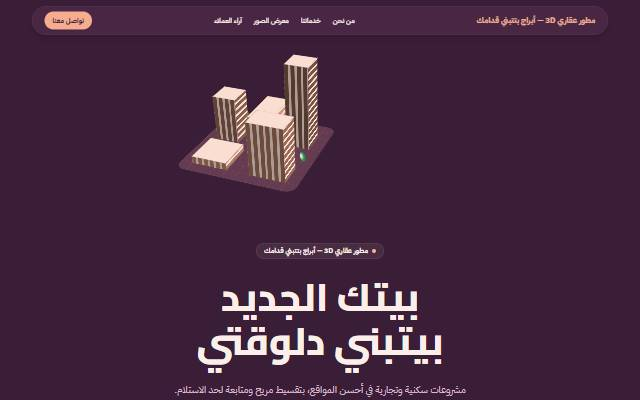
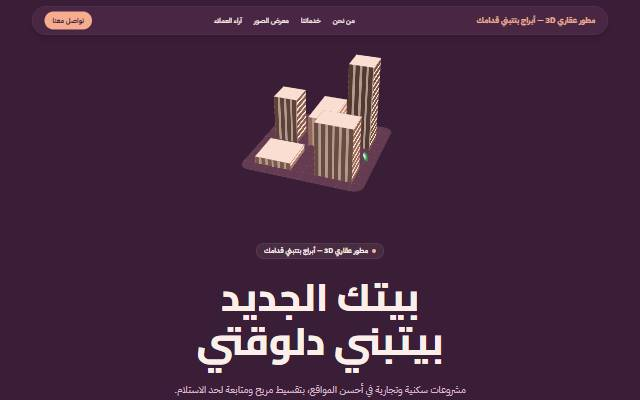
feat(templates): تصميمات 3D — الدفعة 3 (فعاليات/سفر/برمجيات/بورتفوليو/أزياء) + إصلاح اتجاه المجسمات

Changed region(s): [[0.2812, 0.12, 0.625, 0.48]]

diff --git a/resources/css/app.css b/resources/css/app.css
@@ -348,6 +348,7 @@
     width: var(--bq3d-size, 20rem);
     height: var(--bq3d-size, 20rem);
     perspective: 1100px;
+    direction: ltr;
     pointer-events: none;
     scale: var(--bq3d-scale, 1);
 }
@@ -688,6 +689,77 @@
     .bq-reveal .bq3d-brick-drop { animation: bq3d-brick 6s cubic-bezier(.3, 0, .3, 1) infinite; animation-delay: var(--delay, 0s); }
     .bq-reveal .bq3d-wheel { animation: bq3d-roll 2.4s linear infinite; }
     .bq-reveal .bq3d-gear { animation: bq3d-unroll 6s linear infinite; }
+}
+
+/* ===== الدفعة 3 من المجسمات ===== */
+
+/* "احتفال" — علبة هدية بشريطة بتلف، وبلالين طالعة، وقصاقيص ملونة نازلة. */
+.bq3d-gift { position: absolute; }
+.bq3d-gift .wrap > i { background-color: var(--site-primary); background-image: linear-gradient(90deg, transparent 42%, color-mix(in srgb, #fff 80%, var(--site-primary)) 42% 58%, transparent 58%); }
+.bq3d-gift .wrap > :is(.f-right, .f-left) { filter: brightness(.82); }
+.bq3d-gift .wrap > .f-top, .bq3d-gift .lid > .f-top { background-image: linear-gradient(90deg, transparent 42%, color-mix(in srgb, #fff 80%, var(--site-primary)) 42% 58%, transparent 58%), linear-gradient(transparent 42%, color-mix(in srgb, #fff 80%, var(--site-primary)) 42% 58%, transparent 58%); }
+.bq3d-gift .lid > i { background-color: color-mix(in srgb, var(--site-primary) 85%, #000); background-image: linear-gradient(90deg, transparent 42%, color-mix(in srgb, #fff 80%, var(--site-primary)) 42% 58%, transparent 58%); }
+.bq3d-bow { position: absolute; left: 0; top: 0; width: 2.6rem; height: 1.8rem; margin: -.9rem 0 0 -2.6rem; border-radius: 50% 10% 10% 50%; border: .45rem solid color-mix(in srgb, #fff 80%, var(--site-primary)); transform-origin: right center; }
+.bq3d-balloon { position: absolute; width: 3rem; height: 3.6rem; border-radius: 50% 50% 48% 48%; background-image: radial-gradient(circle at 32% 28%, color-mix(in srgb, #fff 70%, var(--bq3d-ball)) 0 10%, var(--bq3d-ball) 45%, color-mix(in srgb, var(--bq3d-ball) 55%, #000) 100%); box-shadow: 0 16px 26px -14px rgb(0 0 0 / .45); }
+.bq3d-balloon::after { content: ''; position: absolute; left: 50%; top: 100%; width: 1px; height: 4.5rem; background-color: color-mix(in srgb, var(--site-text) 35%, transparent); }
+.bq3d-confetti { position: absolute; width: .55rem; height: .9rem; border-radius: .1rem; background-color: var(--c); }
+
+@keyframes bq3d-rise-up { 0%, 100% { translate: 0 0; } 50% { translate: .6rem -1.4rem; } }
+@keyframes bq3d-confetti { 0% { transform: translateY(-2rem) rotate3d(1, 1, 0, 0deg); opacity: 0; } 15% { opacity: 1; } 100% { transform: translateY(16rem) rotate3d(1, 1, 0, 720deg); opacity: 0; } }
+
+/* "كرة أرضية" — كرة من خطوط طول وعرض بتلف، وطيارة بتدور حواليها. */
+.bq3d-globe { position: absolute; }
+.bq3d-globe .meridian { position: absolute; width: 11rem; height: 11rem; margin: -5.5rem 0 0 -5.5rem; border-radius: 9999px; border: 3px solid color-mix(in srgb, var(--site-primary) 85%, #fff); transform: rotateY(var(--a)); }
+.bq3d-globe .parallel { position: absolute; width: var(--s); height: var(--s); margin: calc(var(--s) / -2) 0 0 calc(var(--s) / -2); border-radius: 9999px; border: 2.5px solid color-mix(in srgb, var(--site-primary) 65%, #fff); transform: translateY(var(--y)) rotateX(90deg); }
+.bq3d-globe-core { position: absolute; left: 50%; top: 50%; width: 10.6rem; height: 10.6rem; margin: -5.3rem 0 0 -5.3rem; border-radius: 9999px; background-image: radial-gradient(circle at 35% 30%, color-mix(in srgb, var(--site-primary) 25%, var(--site-surface)), color-mix(in srgb, var(--site-primary) 55%, var(--site-surface)) 75%); box-shadow: 0 24px 50px -20px rgb(0 0 0 / .5); }
+.bq3d-orbit { position: absolute; transform: rotateX(72deg) rotateZ(-14deg); }
+.bq3d-orbit-ring { position: absolute; width: 16rem; height: 16rem; margin: -8rem 0 0 -8rem; border-radius: 9999px; border: 1.5px dashed color-mix(in srgb, var(--site-text) 30%, transparent); }
+.bq3d-orbit-spin { position: absolute; }
+.bq3d-plane { position: absolute; left: 7.4rem; top: -1.1rem; width: 2.2rem; height: 2.2rem; transform: rotateX(-72deg); background-color: var(--site-primary); clip-path: polygon(50% 0, 58% 38%, 100% 58%, 100% 66%, 58% 56%, 56% 84%, 68% 94%, 68% 100%, 50% 95%, 32% 100%, 32% 94%, 44% 84%, 42% 56%, 0 66%, 0 58%, 42% 38%); }
+
+@keyframes bq3d-orbit { to { transform: rotateZ(360deg); } }
+
+/* "مكعب" — مكعب كود (أوجه فيها سطور كود ونوافذ) بيلف، ومكعبات صغيرة بتدور حواليه. */
+.bq3d-codecube > i { background-color: color-mix(in srgb, var(--site-surface) 70%, #000); box-shadow: inset 0 0 0 2px color-mix(in srgb, var(--site-primary) 70%, transparent), 0 0 24px color-mix(in srgb, var(--site-primary) 30%, transparent); background-image: radial-gradient(circle at .9rem .9rem, #ff5f57 0 .22rem, transparent .24rem), radial-gradient(circle at 1.6rem .9rem, #febc2e 0 .22rem, transparent .24rem), radial-gradient(circle at 2.3rem .9rem, #28c840 0 .22rem, transparent .24rem), repeating-linear-gradient(to bottom, transparent 0 .55rem, color-mix(in srgb, var(--site-primary) 75%, transparent) .55rem .8rem, transparent .8rem 1.1rem); background-size: auto, auto, auto, 70% 60%; background-position: 0 0, 0 0, 0 0, .8rem 2rem; background-repeat: no-repeat; }
+.bq3d-codecube > .f-right { background-size: auto, auto, auto, 45% 60%; }
+.bq3d-codecube > .f-top { background-size: auto, auto, auto, 55% 50%; }
+.bq3d-cubelet > i { background-color: var(--site-primary); box-shadow: inset 0 0 0 1px rgb(255 255 255 / .3); }
+.bq3d-cubelet > :is(.f-right, .f-left) { filter: brightness(.75); }
+.bq3d-cubelet > .f-top { filter: brightness(1.15); }
+
+@keyframes bq3d-tumble { to { transform: rotateX(-24deg) rotateY(360deg); } }
+@keyframes bq3d-tumble-small { to { transform: rotateX(360deg) rotateY(360deg); } }
+
+/* "لوحات" — لوحات فنية متعلقة في الهوا على أعماق مختلفة، بتلف كأنك ماشي في معرض. */
+.bq3d-frames { position: absolute; transform: rotateY(-24deg) rotateX(6deg); }
+.bq3d-art { position: absolute; width: var(--w); height: var(--h); margin: calc(var(--h) / -2) 0 0 calc(var(--w) / -2); transform: translate3d(var(--x), var(--y), var(--z)); padding: .45rem; background-color: color-mix(in srgb, var(--site-surface) 50%, #fff); box-shadow: 0 0 0 .3rem color-mix(in srgb, var(--site-primary) 55%, #1f2937), 0 24px 40px -18px rgb(0 0 0 / .55); }
+.bq3d-art::before { content: ''; position: absolute; inset: .45rem; background-image: var(--art); }
+
+@keyframes bq3d-walk { 0%, 100% { transform: rotateY(-30deg) rotateX(6deg); } 50% { transform: rotateY(22deg) rotateX(2deg); } }
+
+/* "شماعة" — شماعة عليها فستان بيتمرجح، وشنطة تسوق جنبها. */
+.bq3d-hanger { position: absolute; transform-origin: 0 -5.5rem; }
+.bq3d-hanger .hook { position: absolute; left: -.9rem; top: -6.4rem; width: 1.8rem; height: 1.8rem; border-radius: 9999px; border: .25rem solid #9ca3af; border-bottom-color: transparent; border-left-color: transparent; transform: rotate(-45deg); }
+.bq3d-hanger .wire { position: absolute; left: -5rem; top: -4.8rem; width: 10rem; height: 2.2rem; background-color: #9ca3af; clip-path: polygon(50% 0, 100% 90%, 100% 100%, 0 100%, 0 90%, 50% 6%); }
+.bq3d-hanger .dress { position: absolute; left: -4.6rem; top: -2.8rem; width: 9.2rem; height: 11rem; background-image: linear-gradient(100deg, color-mix(in srgb, var(--site-primary) 70%, #000), var(--site-primary) 40%, color-mix(in srgb, var(--site-primary) 60%, #fff) 55%, var(--site-primary) 70%, color-mix(in srgb, var(--site-primary) 65%, #000)); clip-path: polygon(30% 0, 40% 0, 50% 8%, 60% 0, 70% 0, 72% 30%, 64% 38%, 100% 100%, 0 100%, 36% 38%, 28% 30%); }
+.bq3d-hanger .belt { position: absolute; left: -1.7rem; top: 1.2rem; width: 3.4rem; height: .5rem; border-radius: 9999px; background-color: color-mix(in srgb, #fff 75%, var(--site-primary)); }
+.bq3d-bag { position: absolute; }
+.bq3d-bag .body > i { background-color: color-mix(in srgb, var(--site-surface) 30%, #fff); box-shadow: inset 0 0 0 1px rgb(0 0 0 / .1); }
+.bq3d-bag .body > .f-front::after { content: ''; position: absolute; left: 30%; right: 30%; top: 38%; height: 26%; border-radius: 9999px; background-color: var(--site-primary); }
+.bq3d-bag .body > :is(.f-right, .f-left) { filter: brightness(.85); }
+.bq3d-bag .handle { position: absolute; left: -1.3rem; top: -4.6rem; width: 2.6rem; height: 2.6rem; border-radius: 9999px; border: .3rem solid var(--site-primary); border-bottom-color: transparent; transform: translateZ(1.25rem); }
+
+@keyframes bq3d-hang { 0%, 100% { transform: rotateY(-28deg) rotateZ(3deg); } 50% { transform: rotateY(28deg) rotateZ(-3deg); } }
+
+@media (prefers-reduced-motion: no-preference) {
+    .bq-reveal .bq3d-balloon { animation: bq3d-rise-up 5s ease-in-out infinite; animation-delay: var(--delay, 0s); }
+    .bq-reveal .bq3d-confetti { animation: bq3d-confetti 4s linear infinite; animation-delay: var(--delay, 0s); }
+    .bq-reveal .bq3d-globe-spin { animation: bq3d-spin-y 20s linear infinite; }
+    .bq-reveal .bq3d-orbit-spin { animation: bq3d-orbit 7s linear infinite; }
+    .bq-reveal .bq3d-cube-spin { animation: bq3d-tumble 16s linear infinite; }
+    .bq-reveal .bq3d-cubelet-spin { animation: bq3d-tumble-small 6s linear infinite; animation-delay: var(--delay, 0s); }
+    .bq-reveal .bq3d-frames { animation: bq3d-walk 10s ease-in-out infinite; }
+    .bq-reveal .bq3d-hanger { animation: bq3d-hang 6s ease-in-out infinite; }
 }
 
 /* نسخة المجسم التانية في قسم التواصل ثابتة (حركة واحدة بس في الصفحة — أخف على الموبايل). */

diff --git a/database/data/template-library.php b/database/data/template-library.php
@@ -992,6 +992,7 @@ return [
             ['slug' => 'tnthym-faaalyat-omnasbat-mkdm-hflat-ks-alaarosyn', 'wave' => 2, 'name' => 'مقدّم حفلات — قصة العروسين', 'hero_title' => 'كلمة حلوة في أهم لحظة', 'hero_subtitle' => 'تقديم فقرات الفرح والخطوبة، وحكاية العروسين بتتقال بشكل يفرّح الكل.'],
             ['slug' => 'tnthym-faaalyat-omnasbat-mnthm-hflat-althmanynat-rytro', 'wave' => 2, 'name' => 'منظّم حفلات الثمانينات — ريترو', 'hero_title' => 'حفلة بطعم الأيام الحلوة', 'hero_subtitle' => 'ديكور وأغاني وأزياء وألعاب من الثمانينات والتسعينات، ليوم يرجّعكم ورا.'],
             ['slug' => 'tnthym-faaalyat-omnasbat-shrk-tthakr-otsgyl-faaalyat-byanat-alhdor', 'wave' => 2, 'name' => 'شركة تذاكر وتسجيل فعاليات — بيانات الحضور', 'hero_title' => 'تذاكر وتسجيل من غير طوابير', 'hero_subtitle' => 'تذاكر إلكترونية بكود QR، وتسجيل دخول سريع، وتقرير لحظي بأعداد الحضور.'],
+            ['slug' => 'tnthym-faaalyat-3d-festive', 'wave' => 3, 'layout' => 'festive', 'name' => 'منظّم حفلات 3D — هدية وفرحة', 'hero_title' => 'فرحتك علينا من الأول للآخر', 'hero_subtitle' => 'تنظيم أفراح وأعياد ميلاد ومناسبات بديكور وصوت وإضاءة، وكل تفصيلة متظبطة في ميعادها.'],
         ],
         'tones' => [
             'warm' => [
@@ -1084,6 +1085,7 @@ return [
             ['slug' => 'sfr-osyah-rhlat-maa-rhal-kss-mn-altryk', 'wave' => 2, 'name' => 'رحلات مع رحّالة — قصص من الطريق', 'hero_title' => 'سافر مع حد شاف الدنيا', 'hero_subtitle' => 'رحلات جماعية صغيرة يقودها رحّالة، لأماكن مش في كتالوجات السياحة العادية.'],
             ['slug' => 'sfr-osyah-rhlat-ktar-klasyky-fyntag', 'wave' => 2, 'name' => 'رحلات قطار كلاسيكية — فينتاج', 'hero_title' => 'رحلة قطر زي زمان', 'hero_subtitle' => 'رحلات بقطارات النوم للأقصر وأسوان، بعربيات مرمّمة وأكل على الطريقة القديمة.'],
             ['slug' => 'sfr-osyah-mns-tamyn-sfr-atmt-kaml', 'wave' => 2, 'name' => 'منصة تأمين سفر — أتمتة كاملة', 'hero_title' => 'تأمين سفر في دقيقتين', 'hero_subtitle' => 'وثيقة تأمين طبي للسفر بتطلع فوراً، وتغطية معتمدة للسفارات.'],
+            ['slug' => 'sfr-osyah-3d-globe', 'wave' => 3, 'layout' => 'globe', 'name' => 'شركة سياحة 3D — العالم بين إيديك', 'hero_title' => 'لف العالم وإنت مطمّن', 'hero_subtitle' => 'رحلات داخلية وخارجية بطيران وفنادق مختارة، وبرنامج مظبوط من أول الحجز لحد الرجوع.'],
         ],
         'tones' => [
             'warm' => [
@@ -1176,6 +1178,7 @@ return [
             ['slug' => 'brmgyat-ostart-ab-shrk-ttoyr-mtagr-ks-ngah-kl-mtgr', 'wave' => 2, 'name' => 'شركة تطوير متاجر — قصة نجاح كل متجر', 'hero_title' => 'متجرك الإلكتروني من أول يوم', 'hero_subtitle' => 'تصميم وبرمجة متاجر بربط دفع وشحن، وعملاء كبروا معانا.'],
             ['slug' => 'brmgyat-ostart-ab-astodyo-alaaab-mobayl-mrh-bksl', 'wave' => 2, 'name' => 'استوديو ألعاب موبايل — مرح بكسل', 'hero_title' => 'ألعاب بسيطة بتسلّي جداً', 'hero_subtitle' => 'ألعاب موبايل بستايل البكسل الكلاسيكي، للاعبين من كل الأعمار حول العالم.'],
             ['slug' => 'brmgyat-ostart-ab-start-ab-thkaaa-astnaaay-atmt-alshghl', 'wave' => 2, 'name' => 'ستارت أب ذكاء اصطناعي — أتمتة الشغل', 'hero_title' => 'خلّي الذكاء الاصطناعي يشتغل عنك', 'hero_subtitle' => 'أدوات بتقرا الإيميلات والفواتير وترد على العملاء، وتوفر ساعات كل يوم.'],
+            ['slug' => 'brmgyat-ostart-ab-3d-cubic', 'wave' => 3, 'layout' => 'cubic', 'name' => 'شركة برمجيات 3D — كود بيلف', 'hero_title' => 'سيستم شغلك يمشي لوحده', 'hero_subtitle' => 'تطبيقات ومواقع وأنظمة مخصوصة لشغلك، بكود نضيف ودعم فني مستمر بعد التسليم.'],
         ],
         'tones' => [
             'warm' => [
@@ -1268,6 +1271,7 @@ return [
             ['slug' => 'bortfolyo-omstklyn-sfh-mhrr-mthkrat-kstk-bklamk', 'wave' => 2, 'name' => 'صفحة محررة مذكرات — قصتك بكلامك', 'hero_title' => 'ذكرياتك تستاهل تتكتب', 'hero_subtitle' => 'بنسجّل ذكرياتك ونصيغها في كتاب مطبوع، هدية تفضل للعيلة سنين.'],
             ['slug' => 'bortfolyo-omstklyn-bortfolyo-msmm-tyshyrtat-bhg-oaloan-zman', 'wave' => 2, 'name' => 'بورتفوليو مصمم تيشيرتات — بهجة وألوان زمان', 'hero_title' => 'تيشيرتات بتصميمات تفرّح', 'hero_subtitle' => 'رسومات مطبوعة على تيشيرتات وشنط، بستايل الكرتون والإعلانات القديمة.'],
             ['slug' => 'bortfolyo-omstklyn-sfh-mhnds-byanat-kod-othlyl', 'wave' => 2, 'name' => 'صفحة مهندس بيانات — كود وتحليل', 'hero_title' => 'بيانات بتتحول لقرارات', 'hero_subtitle' => 'تنظيف وتحليل بيانات ولوحات متابعة ونماذج تنبؤ، لشركات ناشئة ومتوسطة.'],
+            ['slug' => 'portfolio-mstklyn-3d-canvas', 'wave' => 3, 'layout' => 'canvas', 'name' => 'معرض أعمال 3D — لوحات في الهوا', 'hero_title' => 'أعمالي بتتكلم عني', 'hero_subtitle' => 'مشاريع اشتغلتها بإيدي من الفكرة للتسليم، اتفرّج عليها واختار اللي يناسب فكرتك.'],
         ],
         'tones' => [
             'warm' => [
@@ -1360,6 +1364,7 @@ return [
             ['slug' => 'azyaaa-omlabs-orsh-khyat-ks-kl-ghrz', 'wave' => 2, 'name' => 'ورشة خياطة — قصة كل غرزة', 'hero_title' => 'تفصيل وتعديل بإيد أسطى', 'hero_subtitle' => 'تفصيل فساتين وجلاليب وتعديل مقاسات، بتشطيب نضيف وميعاد مظبوط.'],
             ['slug' => 'azyaaa-omlabs-mtgr-mlabs-fyntag-ktaa-mkhtar', 'wave' => 2, 'name' => 'متجر ملابس فينتاج — قطع مختارة', 'hero_title' => 'قطع فينتاج مالهاش زي', 'hero_subtitle' => 'جواكت وفساتين وشنط من السبعينات والتمانينات، متنضفة ومتختارة واحدة واحدة.'],
             ['slug' => 'azyaaa-omlabs-mark-tbaaa-aand-altlb-atmt-kaml', 'wave' => 2, 'name' => 'ماركة طباعة عند الطلب — أتمتة كاملة', 'hero_title' => 'صمّم واطبع من غير مخزون', 'hero_subtitle' => 'اطبع تصميماتك على تيشيرتات وشنط، وإحنا نطبع ونشحن أول ما الطلب يوصل.'],
+            ['slug' => 'azyaa-omlabs-3d-atelier', 'wave' => 3, 'layout' => 'atelier', 'name' => 'بوتيك 3D — فستان على الشماعة', 'hero_title' => 'لبسك يعمل حضور', 'hero_subtitle' => 'تشكيلات جديدة كل موسم بخامات مختارة ومقاسات لكل الأجسام، وتوصيل لحد البيت.'],
         ],
         'tones' => [
             'warm' => [

diff --git a/app/Console/Commands/SeedTemplateLibrary.php b/app/Console/Commands/SeedTemplateLibrary.php
@@ -38,7 +38,7 @@ class SeedTemplateLibrary extends Command
 {
     // زوّدها مع أي تعديل في البيانات أو التوزيع — local/update وbarq:local-setup بيعيدوا التوليد
     // لما تختلف عن المتخزّنة في جدول settings، وعلى السيرفر خطوة في الديبلوي (شوف CLAUDE.md).
-    public const LIBRARY_VERSION = '2026-10-11.4';
+    public const LIBRARY_VERSION = '2026-10-11.5';
 
     // (2026-10-11) القالب اللي ينفع لفئة تانية يظهر فيها كمان — المفتاح أول الاسم (قبل « — »).
     // أي اسم بيبدأ بـ متجر/بوتيك/ماركة بيتضاف لـ«متاجر إلكترونية» تلقائياً (extraCategoriesFor).
@@ -263,6 +263,11 @@ class SeedTemplateLibrary extends Command
         'verdict' => ['3D', 'مجسم', 'ميزان'],
         'blocks' => ['3D', 'مجسم', 'طوب'],
         'torque' => ['3D', 'مجسم', 'عجلة'],
+        'festive' => ['3D', 'مجسم', 'احتفال'],
+        'globe' => ['3D', 'مجسم', 'كرة أرضية'],
+        'cubic' => ['3D', 'مجسم', 'مكعب'],
+        'canvas' => ['3D', 'مجسم', 'لوحات'],
+        'atelier' => ['3D', 'مجسم', 'شماعة'],
     ];
 
     // الدفعة اللي كل تصميم دخل فيها المكتبة (مش مكتوب = 1). شوف تعليق الدفعات فوق.
@@ -271,6 +276,7 @@ class SeedTemplateLibrary extends Command
         'mashrabiya' => 2, 'showcase' => 2, 'story' => 2, 'retro' => 2, 'terminal' => 2,
         'brew' => 3, 'helix' => 3, 'gloss' => 3, 'forge' => 3, 'skyline' => 3,
         'parcel' => 3, 'scholar' => 3, 'verdict' => 3, 'blocks' => 3, 'torque' => 3,
+        'festive' => 3, 'globe' => 3, 'cubic' => 3, 'canvas' => 3, 'atelier' => 3,
     ];
 
     // طابع كل تصميم — بيحدد نسخة النصوص (tones في ملف البيانات) والألوان والخطوط المفضّلة ليه.
@@ -288,6 +294,7 @@ class SeedTemplateLibrary extends Command
         'aurora' => 'modern', 'showcase' => 'modern', 'terminal' => 'modern',
         'brew' => 'warm', 'helix' => 'calm', 'gloss' => 'luxury', 'forge' => 'bold', 'skyline' => 'modern',
         'parcel' => 'modern', 'scholar' => 'calm', 'verdict' => 'luxury', 'blocks' => 'bold', 'torque' => 'bold',
+        'festive' => 'bold', 'globe' => 'modern', 'cubic' => 'modern', 'canvas' => 'calm', 'atelier' => 'luxury',
     ];
 
     // كلمات بتدل على طابع الاسم — بتكسر التعادل في التوزيع لصالح تصميم من نفس الطابع.
@@ -436,6 +443,11 @@ class SeedTemplateLibrary extends Command
         'verdict' => [['ibm-plex-arabic', 'amiri'], ['markazi-text', 'el-messiri']],
         'blocks' => [['cairo', 'noto-kufi-arabic'], ['tajawal', 'changa']],
         'torque' => [['tajawal', 'changa'], ['cairo', 'alexandria']],
+        'festive' => [['cairo', 'lemonada'], ['tajawal', 'baloo-bhaijaan-2']],
+        'globe' => [['readex-pro', 'alexandria'], ['tajawal', 'cairo']],
+        'cubic' => [['ibm-plex-arabic', 'changa'], ['readex-pro', 'noto-kufi-arabic']],
+        'canvas' => [['ibm-plex-arabic', 'amiri'], ['mada', 'el-messiri']],
+        'atelier' => [['tajawal', 'el-messiri'], ['readex-pro', 'reem-kufi']],
     ];
 
     private bool $hasHeadingFont = false;

diff --git a/resources/views/site/partials/depth/scenes/festive.blade.php b/resources/views/site/partials/depth/scenes/festive.blade.php
@@ -1,0 +1,21 @@
+{{-- "احتفال" — علبة هدية بشريطة بتلف، وبلالين طالعة، وقصاقيص ملونة نازلة. --}}
+<div class="bq3d-scene" aria-hidden="true">
+    @foreach ([['14%', '0s', '#f43f5e'], ['30%', '1.1s', '#facc15'], ['52%', '2.2s', '#22d3ee'], ['70%', '.6s', '#a3e635'], ['86%', '1.7s', '#c084fc'], ['42%', '3s', '#fb923c']] as [$left, $delay, $color])
+        <span class="bq3d-confetti" style="left: {{ $left }}; top: 0; --delay: {{ $delay }}; --c: {{ $color }};"></span>
+    @endforeach
+    <span class="bq3d-balloon" style="left: 4%; top: 6%; --bq3d-ball: var(--site-primary);"></span>
+    <span class="bq3d-balloon" style="left: 20%; top: 0; --delay: 1.4s; --bq3d-ball: color-mix(in srgb, var(--site-primary) 45%, #fff); scale: .8;"></span>
+    <span class="bq3d-balloon" style="right: 6%; top: 10%; --delay: .7s; --bq3d-ball: #f59e0b; scale: .9;"></span>
+    <div class="bq3d-center" style="top: 62%;">
+        <div class="bq3d-turny" style="--from: -40deg; --to: 30deg; transform: rotateX(-14deg) rotateY(-40deg);">
+            <div class="bq3d-gift">
+                @include('site.partials.depth.box', ['box' => ['class' => 'wrap', 'w' => '7rem', 'h' => '5.6rem', 'd' => '7rem', 'style' => 'transform: translateY(.8rem);']])
+                @include('site.partials.depth.box', ['box' => ['class' => 'lid', 'w' => '7.8rem', 'h' => '1.4rem', 'd' => '7.8rem', 'style' => 'transform: translateY(-2.6rem);']])
+                <div style="position: absolute; transform: translateY(-3.6rem);">
+                    <span class="bq3d-bow" style="transform: rotateZ(-25deg);"></span>
+                    <span class="bq3d-bow" style="transform: rotateY(180deg) rotateZ(-25deg);"></span>
+                </div>
+            </div>
+        </div>
+    </div>
+</div>

diff --git a/resources/views/site/partials/depth/scenes/canvas.blade.php b/resources/views/site/partials/depth/scenes/canvas.blade.php
@@ -1,0 +1,16 @@
+{{-- "لوحات" — 4 لوحات فنية متعلقة في الهوا على أعماق مختلفة، بتلف كأنك ماشي في معرض. --}}
+<div class="bq3d-scene" aria-hidden="true">
+    <div class="bq3d-center">
+        <div class="bq3d-frames">
+            @foreach ([
+                ['w' => '7rem', 'h' => '8.8rem', 'x' => '-3.4rem', 'y' => '-1rem', 'z' => '-3rem', 'art' => 'linear-gradient(160deg, var(--site-primary), color-mix(in srgb, var(--site-primary) 30%, #111) 70%), radial-gradient(circle at 70% 30%, #fde68a 0 18%, transparent 19%)'],
+                ['w' => '6rem', 'h' => '6rem', 'x' => '3.6rem', 'y' => '-3.4rem', 'z' => '1rem', 'art' => 'radial-gradient(circle at 50% 55%, color-mix(in srgb, var(--site-primary) 70%, #fff) 0 30%, transparent 31%), linear-gradient(to bottom, #fef3c7, #fcd34d)'],
+                ['w' => '6.6rem', 'h' => '4.6rem', 'x' => '3rem', 'y' => '3.4rem', 'z' => '3.6rem', 'art' => 'linear-gradient(to top, color-mix(in srgb, var(--site-primary) 60%, #0f172a) 0 35%, transparent 35%), conic-gradient(from 200deg at 30% 70%, #60a5fa, #a78bfa, #f472b6, #60a5fa)'],
+                ['w' => '4.4rem', 'h' => '5.6rem', 'x' => '-4.2rem', 'y' => '4.2rem', 'z' => '5rem', 'art' => 'repeating-linear-gradient(45deg, var(--site-primary) 0 .5rem, color-mix(in srgb, var(--site-primary) 30%, #fff) .5rem 1rem)'],
+            ] as $f)
+                <span class="bq3d-art" style="--w: {{ $f['w'] }}; --h: {{ $f['h'] }}; --x: {{ $f['x'] }}; --y: {{ $f['y'] }}; --z: {{ $f['z'] }}; --art: {{ $f['art'] }};"></span>
+            @endforeach
+        </div>
+    </div>
+    <span class="bq3d-ball bq3d-bobby" style="right: 4%; top: 6%; width: 1.4rem; height: 1.4rem;"></span>
+</div>

diff --git a/resources/views/site/partials/depth/scenes/globe.blade.php b/resources/views/site/partials/depth/scenes/globe.blade.php
@@ -1,0 +1,24 @@
+{{-- "كرة أرضية" — كرة من خطوط طول وعرض بتلف، وطيارة بتدور حواليها في مدار مايل. --}}
+<div class="bq3d-scene" aria-hidden="true">
+    <span class="bq3d-globe-core"></span>
+    <div class="bq3d-center">
+        <div class="bq3d-globe" style="transform: rotateZ(-18deg);">
+            <div class="bq3d-globe-spin" style="position: absolute;">
+                @for ($i = 0; $i < 6; $i++)
+                    <i class="meridian" style="--a: {{ $i * 30 }}deg;"></i>
+                @endfor
+                @foreach ([[0, 11], [-2.75, 9.5], [2.75, 9.5], [-4.6, 5.6], [4.6, 5.6]] as [$y, $size])
+                    <i class="parallel" style="--y: {{ $y }}rem; --s: {{ $size }}rem;"></i>
+                @endforeach
+            </div>
+        </div>
+        <div class="bq3d-orbit">
+            <span class="bq3d-orbit-ring"></span>
+            <div class="bq3d-orbit-spin">
+                <span class="bq3d-plane"></span>
+            </div>
+        </div>
+    </div>
+    <span class="bq3d-ball bq3d-floaty" style="left: 6%; top: 10%; width: 1.2rem; height: 1.2rem;"></span>
+    <span class="bq3d-ball bq3d-bobby" style="right: 8%; bottom: 12%; width: 1.6rem; height: 1.6rem; --delay: 1s; --bq3d-ball: color-mix(in srgb, var(--site-primary) 45%, #fff);"></span>
+</div>

diff --git a/resources/views/site/partials/depth/scenes/cubic.blade.php b/resources/views/site/partials/depth/scenes/cubic.blade.php
@@ -1,0 +1,15 @@
+{{-- "مكعب" — مكعب كود (أوجهه نوافذ فيها سطور كود) بيلف، و3 مكعبات صغيرة بتشقلب حواليه. --}}
+<div class="bq3d-scene" aria-hidden="true">
+    <div class="bq3d-center">
+        <div class="bq3d-cube-spin" style="position: absolute; transform: rotateX(-24deg) rotateY(35deg);">
+            @include('site.partials.depth.box', ['box' => ['class' => 'bq3d-codecube', 'w' => '8.5rem', 'h' => '8.5rem', 'd' => '8.5rem']])
+        </div>
+    </div>
+    @foreach ([['12%', '14%', '2.4rem', '0s'], ['82%', '22%', '1.8rem', '1.5s'], ['76%', '80%', '2.8rem', '.8s'], ['14%', '78%', '1.5rem', '2.2s']] as [$left, $top, $size, $delay])
+        <div class="bq3d-floaty" style="position: absolute; left: {{ $left }}; top: {{ $top }}; --delay: {{ $delay }};">
+            <div class="bq3d-cubelet-spin" style="position: absolute; --delay: {{ $delay }};">
+                @include('site.partials.depth.box', ['box' => ['class' => 'bq3d-cubelet', 'w' => $size, 'h' => $size, 'd' => $size]])
+            </div>
+        </div>
+    @endforeach
+</div>

diff --git a/app/Models/Template.php b/app/Models/Template.php
@@ -28,6 +28,7 @@ class Template extends Model
         // الدفعة 3 (2026-10-11) — تصميمات 3D، كل واحد مجسمه على مقاس فئة (site/partials/depth).
         'brew', 'helix', 'gloss', 'forge', 'skyline',
         'parcel', 'scholar', 'verdict', 'blocks', 'torque',
+        'festive', 'globe', 'cubic', 'canvas', 'atelier',
     ];
 
     protected $fillable = [
@@ -99,6 +100,7 @@ class Template extends Model
             'showcase' => 'شوكيس', 'story' => 'حكاية', 'retro' => 'ريترو', 'terminal' => 'تيرمينال',
             'brew' => 'قهوة 3D', 'helix' => 'حلزون 3D', 'gloss' => 'لمعة 3D', 'forge' => 'حديد 3D', 'skyline' => 'أبراج 3D',
             'parcel' => 'طرد 3D', 'scholar' => 'كتاب 3D', 'verdict' => 'ميزان 3D', 'blocks' => 'طوب 3D', 'torque' => 'عجلة 3D',
+            'festive' => 'احتفال 3D', 'globe' => 'كرة أرضية 3D', 'cubic' => 'مكعب 3D', 'canvas' => 'لوحات 3D', 'atelier' => 'شماعة 3D',
             default => 'كلاسيك',
         };
     }

diff --git a/resources/views/site/partials/depth/scenes/atelier.blade.php b/resources/views/site/partials/depth/scenes/atelier.blade.php
@@ -1,0 +1,20 @@
+{{-- "شماعة" — شماعة عليها فستان بيتمرجح، وشنطة تسوق جنبها. --}}
+<div class="bq3d-scene" aria-hidden="true">
+    <div class="bq3d-center" style="top: 46%; left: 44%;">
+        <div class="bq3d-hanger">
+            <span class="hook"></span>
+            <span class="wire"></span>
+            <span class="dress"></span>
+            <span class="belt"></span>
+        </div>
+    </div>
+    <div class="bq3d-center" style="top: 74%; left: 80%;">
+        <div class="bq3d-turny" style="--from: -40deg; --to: -5deg; --delay: 1s; transform: rotateX(-10deg) rotateY(-40deg);">
+            <div class="bq3d-bag">
+                @include('site.partials.depth.box', ['box' => ['class' => 'body', 'w' => '4.6rem', 'h' => '5.4rem', 'd' => '2.5rem']])
+                <span class="handle"></span>
+            </div>
+        </div>
+    </div>
+    <span class="bq3d-ball bq3d-floaty" style="left: 8%; top: 70%; width: 1.3rem; height: 1.3rem;"></span>
+</div>

diff --git a/tests/Feature/TemplateLibrarySeedTest.php b/tests/Feature/TemplateLibrarySeedTest.php
@@ -172,7 +172,7 @@ class TemplateLibrarySeedTest extends TestCase
                 }
             }
             $waveOneTwo = array_column(array_slice($plans, 0, 25), 'layout');
-            foreach (['brew', 'helix', 'gloss', 'forge', 'skyline', 'parcel', 'scholar', 'verdict', 'blocks', 'torque'] as $layout) {
+            foreach (['brew', 'helix', 'gloss', 'forge', 'skyline', 'parcel', 'scholar', 'verdict', 'blocks', 'torque', 'festive', 'globe', 'cubic', 'canvas', 'atelier'] as $layout) {
                 $this->assertNotContains($layout, $waveOneTwo, "{$category['category']}: 3D layout leaked into waves 1-2");
             }
         }

diff --git a/resources/views/site/layouts/cubic.blade.php b/resources/views/site/layouts/cubic.blade.php
@@ -1,0 +1,2 @@
+{{-- "مكعب 3D" (الدفعة 3، 2026-10-11 — برمجيات): مكعب كود بأوجه نوافذ بيلف ومكعبات صغيرة بتشقلب في نص الهيرو، والصورة على لوح أرضي، كروت بتميل، ومعرض بلاط على أرضية. --}}
+@include('site.partials.depth.page', ['depth' => ['scene' => 'cubic', 'hero' => 'stage', 'cards' => 'tilt', 'gallery' => 'floor', 'radius' => '.9rem', 'backdrop' => 'grid', 'footer' => 'sharp']])

diff --git a/resources/views/site/layouts/festive.blade.php b/resources/views/site/layouts/festive.blade.php
@@ -1,0 +1,2 @@
+{{-- "احتفال 3D" (الدفعة 3، 2026-10-11 — تنظيم فعاليات): علبة هدية بشريطة بتلف وبلالين طالعة وقصاقيص ملونة نازلة في نص الهيرو، والصورة على لوح أرضي، كروت بلوك بارزة. --}}
+@include('site.partials.depth.page', ['depth' => ['scene' => 'festive', 'hero' => 'stage', 'cards' => 'block', 'gallery' => 'cover', 'radius' => '2rem', 'backdrop' => 'dots']])
